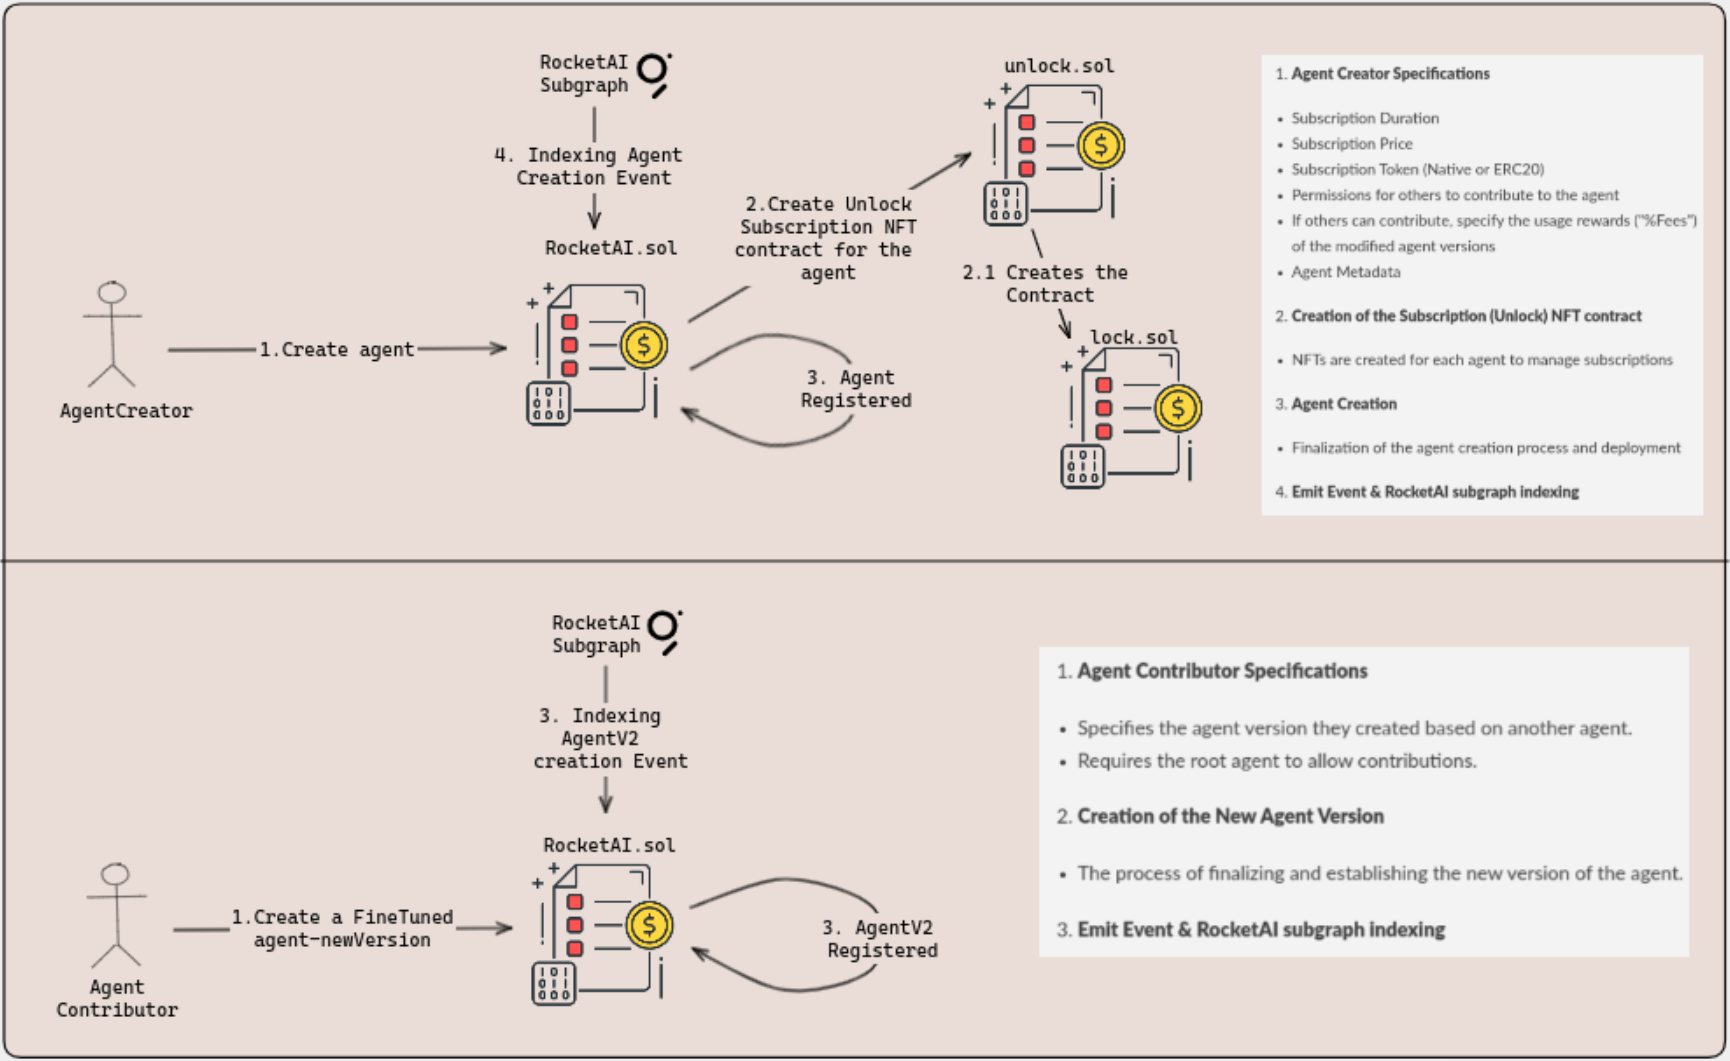
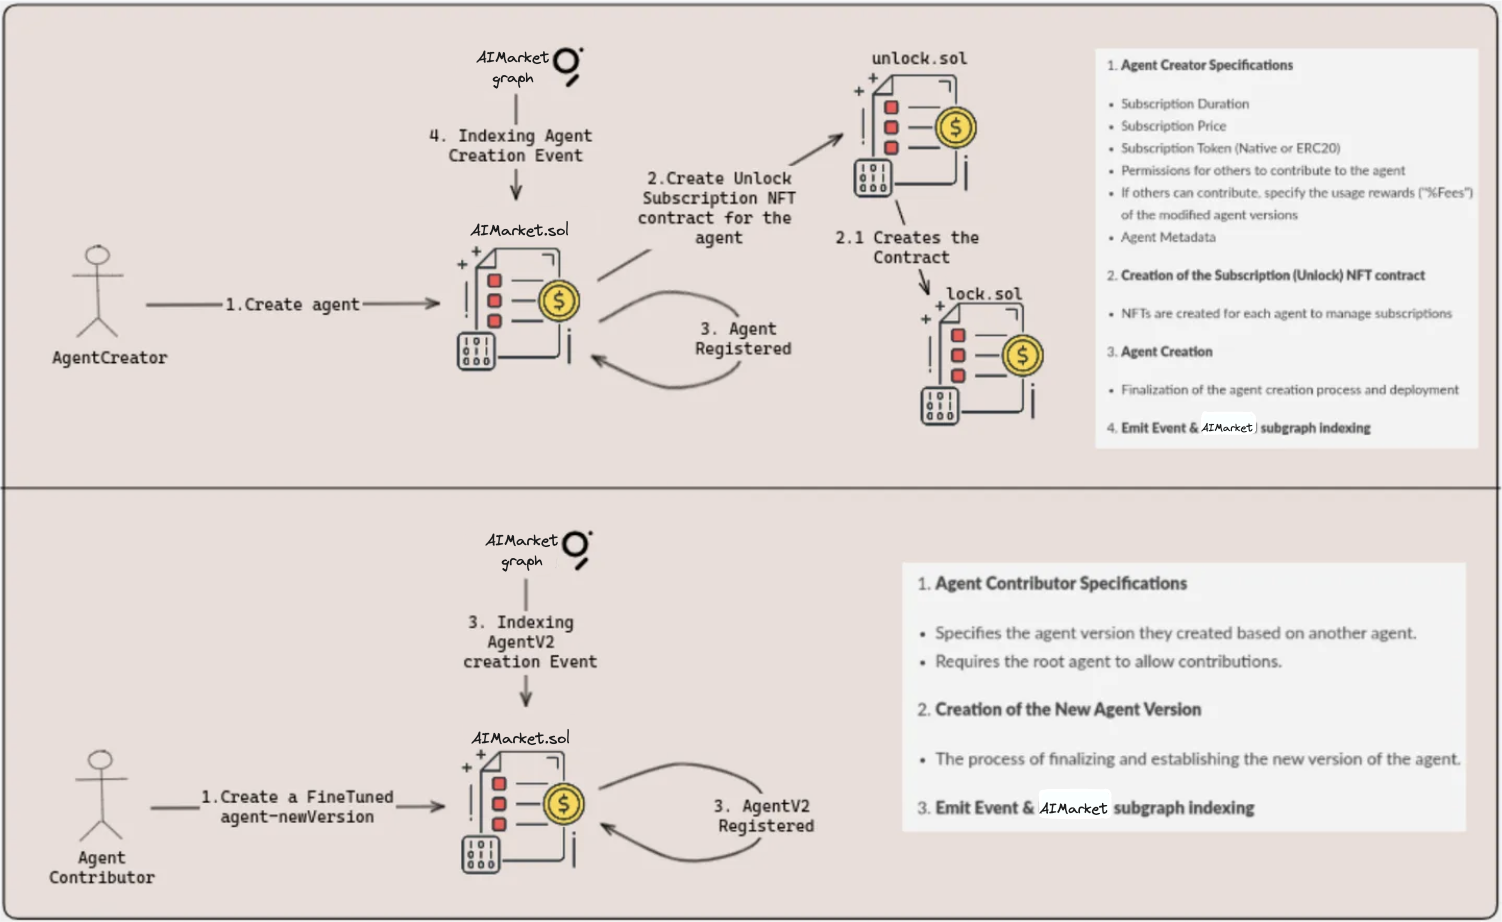
final

diff --git a/app/pages/index.tsx b/app/pages/index.tsx
@@ -2,6 +2,7 @@ import React, { useEffect, useState } from "react";
 import { Avatar, Wrap, WrapItem } from "@chakra-ui/react";
 import Navbar from "@/components/navbar";
 import HeroAnimation from "@/components/Animation/HeroAnimation";
+import { ParticleNetwork } from "@particle-network/auth";
 
 export default function Home() {
   // useState and useEffect to fetch and set dynamic data
@@ -16,22 +17,32 @@ export default function Home() {
           <div className="mt-20 mx-auto p-6 bg-white shadow-xl rounded-lg max-w-4xl">
             <div className="items-center text-center">
               <p className="text-4xl font-bold bg-clip-text bg-gradient-to-b from-indigo-200 to bg-indigo-500">
-              AI MARKET🚀
+                AI-Market
               </p>
 
               <p className="font-md font-mono text-black font-bold mt-2">
                 Revolutionizing AI agent development with collaborative
                 creation, fine-tuning, and diverse applications. Incentivizes
-                top-performing agents and users using Chainlink automation and functions for
-                rewards in RAI tokens AIMarket's ERC20 standard.
+                top-performing agents and users using Chainlink automation and
+                functions for rewards in AIM tokens AIMarket's ERC20 standard.
               </p>
             </div>
             <div className="flex flex-col items-center">
-              <button onClick={() => window.open('https://github.com/Architsharma7/Constellation', '_blank')} className="mt-5 bg-gradient-to-r from-indigo-200 to bg-indigo-500 hover:from-indigo-500 hover:to-indigo-200 text-white font-bold py-2 px-4 rounded-full">Source Code</button>
+              <button
+                onClick={() =>
+                  window.open(
+                    "https://github.com/Dhruv-2003/AvalancheDCA",
+                    "_blank"
+                  )
+                }
+                className="mt-5 bg-gradient-to-r from-indigo-200 to bg-indigo-500 hover:from-indigo-500 hover:to-indigo-200 text-white font-bold py-2 px-4 rounded-full"
+              >
+                Source Code
+              </button>
             </div>
           </div>
 
-          {/* <HeroAnimation></HeroAnimation> */}
+          <HeroAnimation></HeroAnimation>
 
           {/* Use Cases Section */}
           <div className="mt-10 grid grid-cols-2 mx-[20%] gap-6">
@@ -39,7 +50,7 @@ export default function Home() {
             <div className="bg-white p-6 rounded-lg shadow-lg hover:shadow-2xl transition-shadow duration-300 ease-in-out">
               <h3 className="text-lg font-semibold mb-2">Agent Creation</h3>
               <p className="text-sm text-gray-600">
-                RocketAI leverages GPT-4 and other cutting-edge AI models to
+                AIMarket leverages GPT-4 and other cutting-edge AI models to
                 enable the creation of diverse and sophisticated AI agents.
                 These agents can perform a variety of tasks, ranging from simple
                 automation to complex problem-solving.
@@ -63,7 +74,7 @@ export default function Home() {
             <div className="bg-white p-6 rounded-lg shadow-lg hover:shadow-2xl transition-shadow duration-300 ease-in-out">
               <h3 className="text-lg font-semibold mb-2">Subscription Model</h3>
               <p className="text-sm text-gray-600">
-                RocketAI introduces a novel subscription model, powered by the
+                AIMarket introduces a novel subscription model, powered by the
                 Unlock Protocol, enabling agent creators to generate sustainable
                 revenue while providing users with access to high-quality AI
                 services.
@@ -85,9 +96,25 @@ export default function Home() {
           </div>
 
           {/* Powered By Section */}
-          <div className="mt-5 text-center">
+          <div className="mt-5 mb-[4%] text-center">
             <h2 className="text-2xl font-bold mb-4">Powered By</h2>
             <div className="flex flex-wrap justify-center items-center gap-8">
+              <div className="flex flex-col items-center">
+                <img
+                  src="https://gateway.lighthouse.storage/ipfs/QmfUQj2Rz1kvRZmBDHAfSaGx9rxsD5D1YjaXXdmZpE4JWe"
+                  alt="The Graph"
+                  className="h-16"
+                />
+                <p>Avalanche</p>
+              </div>
+              <div className="flex flex-col items-center">
+                <img
+                  src="https://gateway.lighthouse.storage/ipfs/QmaNiKXGhCt8AhTQ5UH4crr2RyndddsDwo89YicmcDvcrp"
+                  alt="The Graph"
+                  className="h-16 rounded-full"
+                />
+                <p>ParticleNetwork</p>
+              </div>
               <div>
                 <img
                   src={

diff --git a/app/components/navbar.tsx b/app/components/navbar.tsx
@@ -1,27 +1,30 @@
 import { ConnectButton } from "@rainbow-me/rainbowkit";
 import { useRouter } from "next/router";
 import React from "react";
-import Image from "next/image";
-import Logo from "../public/logo.png";
+import { Image } from "@chakra-ui/react";
 
 const Navbar = () => {
   const router = useRouter();
   return (
-    <div className="w-screen bg-gradient-to-r from-white via-white to-rose-100">
+    <div className="w-screen bg-gradient-to-r from-blue-100 via-blue-125 to-blue-200 border border-3 border-blue-400 rounded-lg mb-3">
       <div className="flex justify-between mx-6 ml-10">
         <div onClick={() => router.push("/")} className="mt-4 cursor-pointer">
           <div className="flex">
             <Image
               className="cursor-pointer my-auto mx-2"
-              src={Logo}
+              src={
+                "https://gateway.lighthouse.storage/ipfs/QmQv31jGtJ8QoESkh5jGm345w75giT55DnvYiMeEWifd24"
+              }
               alt="AI-Hackathon"
               width={50}
               height={30}
             ></Image>
-            <p className="text-2xl font-bold font-mono text-indigo-500">AI MARKET</p>
+            <p className="text-2xl font-bold font-mono text-indigo-500">
+              AI MARKET
+            </p>
           </div>
         </div>
-        <div className="flex justify-center mx-auto">
+        <div className="flex items-center ml-[7%]">
           <div className="bg-neutral-200 opacity-60 px-1 py-1 rounded-3xl flex mt-4">
             <div
               onClick={() => router.push("/agents")}

diff --git a/app/pages/agents/[agentid].tsx b/app/pages/agents/[agentid].tsx
@@ -606,7 +606,7 @@ const AgentId = () => {
           </div>
         </div>
         <div className="mt-10 w-5/6 mx-auto flex">
-          <div className="w-2/3 border bg-violet-100 flex flex-col border-black mx-6 rounded-xl px-10 py-3 h-96 overflow-scroll">
+          <div className="w-full border bg-violet-100 flex flex-col border-black mx-6 rounded-xl px-10 py-3 h-96 overflow-scroll">
             <p className="text-xl font-mono font-thin text-gray-600">
               Previous Rounds Won
             </p>
@@ -628,11 +628,11 @@ const AgentId = () => {
                           <Td>{getTime(round.blockTimestamp)}</Td>
                           <Td>
                             <a
-                              href={`https://mumbai.polygonscan.com/tx/${round.transactionHash}`}
+                              href={`https://43113.testnet.snowtrace.io/tx/${round.transactionHash}`}
                               target="_blank"
                               className="text-blue-500"
                             >
-                              https://mumbai.polygonscan.com/tx/
+                              https://43113.testnet.snowtrace.io/tx/
                               {round.transactionHash}
                             </a>
                           </Td>

diff --git a/app/components/Animation/HeroAnimation.tsx b/app/components/Animation/HeroAnimation.tsx
@@ -5,13 +5,13 @@ import rocket from "./Rocket.json";
 
 export default function HeroAnimation() {
   return (
-    <div className="flex justify-center items-center ">
-      <div
+    <div className="flex justify-center items-center mt-5">
+      {/* <div
         style={{ height: "300px", width: "300px" }}
         className="flex flex-col items-center justify-center "
       >
         <Lottie animationData={rocket} />
-      </div>
+      </div> */}
       <div
         style={{ height: "190px", width: "190px" }}
         className="flex flex-col items-center justify-center "
